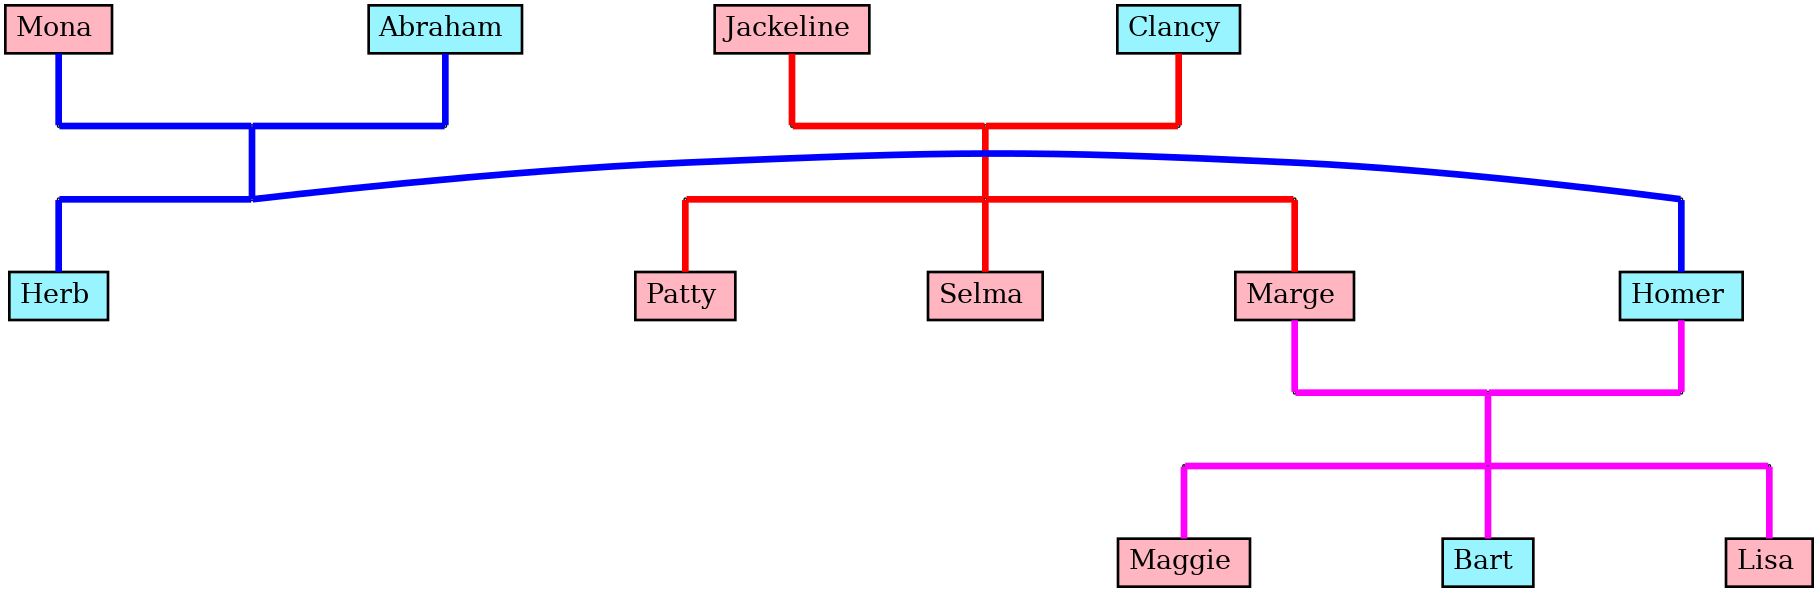
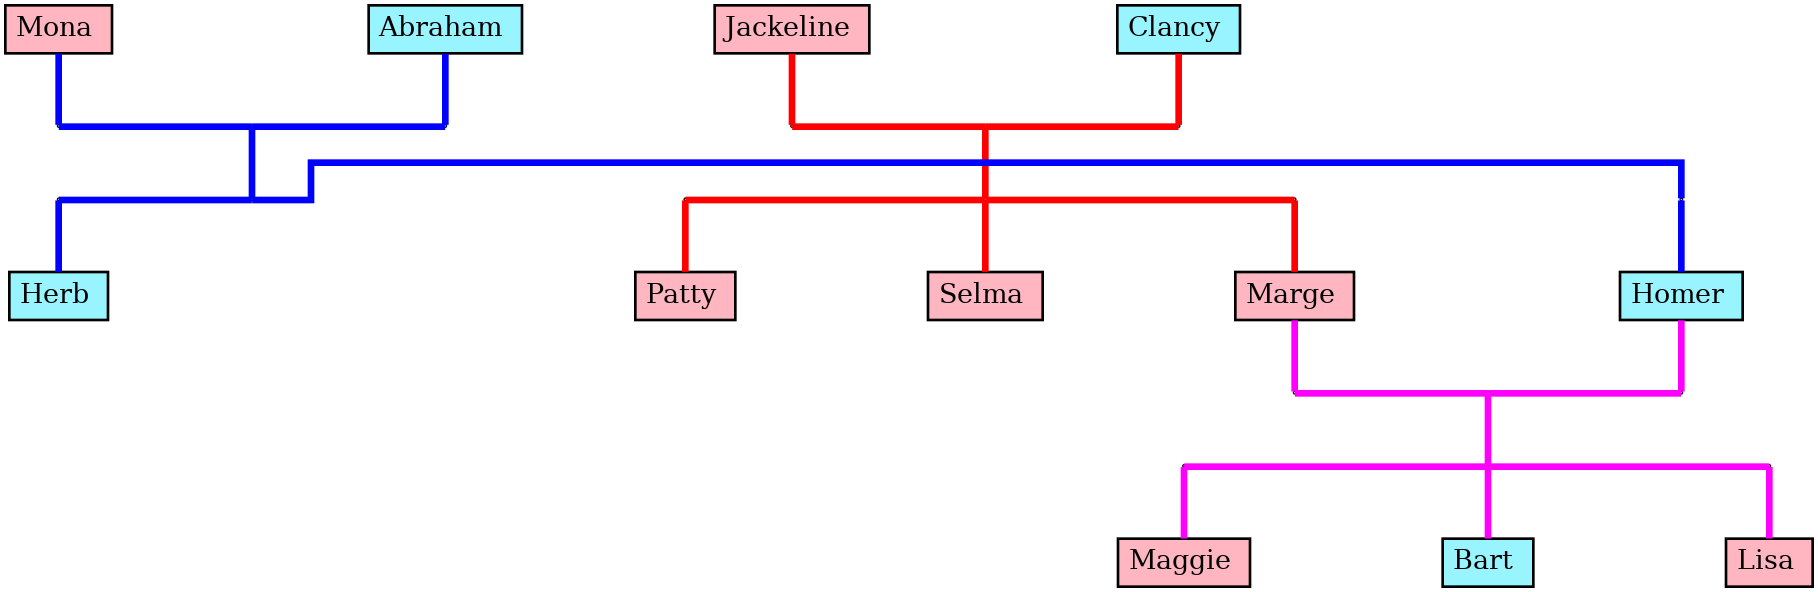
redesign με splines="ortho"

diff --git a/tree_graph/PygraphvizTree.py b/tree_graph/PygraphvizTree.py
@@ -229,7 +229,7 @@ class Graph:
     """Σχεδιάζει το δέντρο μέσω του graphviz"""
     def show(self, filename, filepath):
         # αρχικοποιίηση του γραφήματος
-        graph = pgv.AGraph(splines="true", ranksep="0.75", nodesep="2.0")
+        graph = pgv.AGraph(splines="ortho", ranksep="0.75", nodesep="2.0")
         graph.node_attr.update(shape="box", penwidth=2.0, fontsize="20")
         graph.edge_attr.update(penwidth=5.0)
         # κλήση draw με τη sorted_all λίστα
